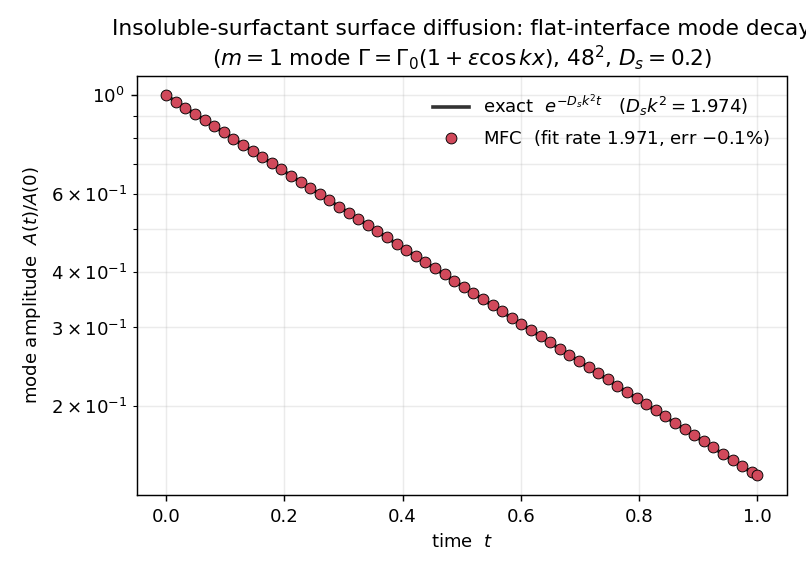
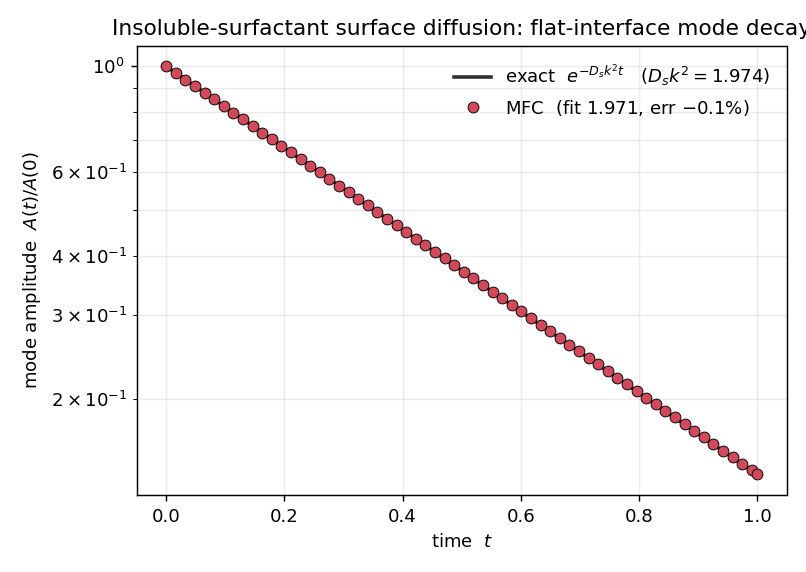
examples: validate surface-diffusion operator across the eigenvalue spectrum (dispersion)
The canonical mode-decay benchmark is the whole rate(k)=D_s k^2 spectrum, not one mode. Add sweep.py (superposition of modes n=1,2,3, which decay independently since the operator is linear) and a measure.py 'sweep' mode that extracts each rate. All three modes lie on D_s k^2: n=1 -0.14%, n=2 -0.57%, n=3 -1.28% (error grows with k as cells-per-wavelength = 48/n drops, the expected spatial-resolution trend), surfactant conserved to round-off. Confirms the existing 1D example is a correct instance of the canonical Laplace-Beltrami benchmark, not just a single point.

Changed region(s): [[0.1241, 0.0594, 0.9926, 0.8322], [0.031, 0.2675, 0.1551, 0.7133], [0.1241, 0.1486, 0.1551, 0.1783]]

diff --git a/examples/1D_solutocapillary_diffusion/measure.py b/examples/1D_solutocapillary_diffusion/measure.py
@@ -1,18 +1,24 @@
 #!/usr/bin/env python3
 """
-Measure the flat-interface surfactant surface-diffusion mode-decay rate and compare to the exact
-value D_s * k^2, then write figures/decay.png.
+Measure the surfactant surface-diffusion mode-decay rate(s) and compare to the exact D_s * k^2.
 
 Reads grid/dt/D_s from the run's simulation.inp (never hard-coded) and the conserved surfactant
-density (the last conserved variable) from the parallel-IO restart files. Run after:
-    ./mfc.sh run case.py -n 1 -t pre_process simulation
-    python3 measure.py
+density (the last conserved variable) from the parallel-IO restart files.
+
+    python3 measure.py           # single-mode decay -> figures/decay.png       (run case.py first)
+    python3 measure.py sweep     # dispersion across wavenumbers -> figures/dispersion.png (run sweep.py first)
+
+The dispersion run (sweep.py) seeds a superposition of modes; because surface diffusion is linear
+each Fourier component decays independently at its own eigenvalue rate, so one run yields the whole
+rate(k) = D_s k^2 spectrum -- the canonical Laplace-Beltrami mode-decay benchmark (e.g. Xu, Li,
+Lowengrub & Zhao, JCP 2006; the surface-FEM literature, Dziuk & Elliott).
 """
 
 import glob
 import math
 import os
 import re
+import sys
 
 import matplotlib
 import numpy as np
@@ -24,8 +30,7 @@ HERE = os.path.dirname(os.path.abspath(__file__))
 
 
 def inp(name, path):
-    txt = open(path).read()
-    m = re.search(rf"^\s*{re.escape(name)}\s*=\s*([^\s,]+)", txt, re.M)
+    m = re.search(rf"^\s*{re.escape(name)}\s*=\s*([^\s,]+)", open(path).read(), re.M)
     if not m:
         raise KeyError(name)
     return float(m.group(1).replace("d", "e").replace("D", "e"))
@@ -36,43 +41,69 @@ nx = int(inp("m", sim)) + 1
 ny = int(inp("n", sim)) + 1
 dt = inp("dt", sim)
 D_s = inp("surf_diff", sim)
-Lx = inp("x_domain%end", sim) - inp("x_domain%beg", sim)
-k = 2.0 * math.pi / Lx
+x0 = inp("x_domain%beg", sim)
+Lx = inp("x_domain%end", sim) - x0
 dx = Lx / nx
-x_cc = inp("x_domain%beg", sim) + (np.arange(nx) + 0.5) * dx
-COS = np.tile(np.cos(k * x_cc), ny)
-SIN = np.tile(np.sin(k * x_cc), ny)
+x_cc = x0 + (np.arange(nx) + 0.5) * dx
 
 files = [f for f in glob.glob(os.path.join(HERE, "restart_data", "lustre_*.dat")) if re.fullmatch(r"\d+", os.path.basename(f)[7:-4])]
 files.sort(key=lambda f: int(os.path.basename(f)[7:-4]))
 ss = os.path.getsize(files[0]) // 8 // (nx * ny)  # surfactant is the last conserved variable
+ts = np.array([int(os.path.basename(f)[7:-4]) * dt for f in files])
+surf = np.array([np.fromfile(f, "<f8").reshape(ss, ny * nx)[ss - 1] for f in files])
+M0 = surf.sum(axis=1)
 
-ts, A, M0 = [], [], []
-for f in files:
-    surf = np.fromfile(f, "<f8").reshape(ss, ny * nx)[ss - 1]
-    ts.append(int(os.path.basename(f)[7:-4]) * dt)
-    A.append(math.hypot((surf * COS).sum(), (surf * SIN).sum()))
-    M0.append(surf.sum())
-ts, A, M0 = np.array(ts), np.array(A), np.array(M0)
-r = A / A[0]
-mask = r > 0.15
-rate = -np.polyfit(ts[mask], np.log(r[mask]), 1)[0]
-ana = D_s * k**2
 
-print(f"total surfactant drift : {100*(M0[-1]/M0[0]-1):+.3f}%")
-print(f"measured decay rate    : {rate:.4f}")
-print(f"exact  D_s k^2         : {ana:.4f}")
-print(f"relative error         : {100*(rate/ana-1):+.2f}%")
+def mode_rate(n):
+    """Fit the decay rate of azimuthal mode n (k = n*2*pi/Lx) over its clean exponential window."""
+    k = n * 2.0 * math.pi / Lx
+    C, S = np.tile(np.cos(k * x_cc), ny), np.tile(np.sin(k * x_cc), ny)
+    A = np.hypot(surf @ C, surf @ S)
+    r = A / A[0]
+    w = (r > 0.12) & (r < 0.95)  # avoid the t=0 point and the noise floor
+    rate = -np.polyfit(ts[w], np.log(r[w]), 1)[0]
+    return k, rate, D_s * k**2, r
 
-fig, ax = plt.subplots(figsize=(6.2, 4.4))
-tt = np.linspace(0, ts[-1], 200)
-ax.semilogy(tt, np.exp(-ana * tt), "-", color="#333", lw=2, label=rf"exact  $e^{{-D_s k^2 t}}$   ($D_s k^2={ana:.3f}$)")
-ax.semilogy(ts, r, "o", ms=6, mfc="#d1495b", mec="k", mew=0.5, label=rf"MFC  (fit ${rate:.3f}$, err ${100*(rate/ana-1):+.1f}\%$)")
-ax.set_xlabel("time  $t$")
-ax.set_ylabel(r"mode amplitude  $A(t)/A(0)$")
-ax.set_title("Insoluble-surfactant surface diffusion: flat-interface mode decay")
-ax.grid(True, which="both", alpha=0.25)
-ax.legend(frameon=False)
-fig.tight_layout()
-fig.savefig(os.path.join(HERE, "figures", "decay.png"), dpi=130)
-print("wrote figures/decay.png")
+
+if "sweep" in sys.argv:
+    modes = [1, 2, 3]
+    print(f"total surfactant drift : {100*(M0[-1]/M0[0]-1):+.3f}%")
+    ks, meas, exact = [], [], []
+    for n in modes:
+        k, rate, ana, _ = mode_rate(n)
+        ks.append(k)
+        meas.append(rate)
+        exact.append(ana)
+        print(f"  mode n={n}  k={k:6.3f}  measured={rate:8.4f}  exact D_s k^2={ana:8.4f}  err={100*(rate/ana-1):+.2f}%")
+    fig, ax = plt.subplots(figsize=(6.2, 4.6))
+    kk = np.linspace(0, max(ks) * 1.05, 100)
+    ax.plot(kk, D_s * kk**2, "-", color="#333", lw=2, label=r"exact  $D_s k^2$")
+    ax.plot(ks, meas, "o", ms=9, mfc="#d1495b", mec="k", mew=0.6, label="MFC")
+    for k, m in zip(ks, meas):
+        ax.annotate(rf"$n={round(k*Lx/(2*math.pi))}$", (k, m), textcoords="offset points", xytext=(8, -10))
+    ax.set_xlabel(r"wavenumber  $k$")
+    ax.set_ylabel(r"decay rate")
+    ax.set_title(r"Surface-diffusion dispersion: rate $=D_s k^2$ across modes")
+    ax.grid(True, alpha=0.25)
+    ax.legend(frameon=False)
+    fig.tight_layout()
+    fig.savefig(os.path.join(HERE, "figures", "dispersion.png"), dpi=130)
+    print("wrote figures/dispersion.png")
+else:
+    k, rate, ana, r = mode_rate(1)
+    print(f"total surfactant drift : {100*(M0[-1]/M0[0]-1):+.3f}%")
+    print(f"measured decay rate    : {rate:.4f}")
+    print(f"exact  D_s k^2         : {ana:.4f}")
+    print(f"relative error         : {100*(rate/ana-1):+.2f}%")
+    fig, ax = plt.subplots(figsize=(6.2, 4.4))
+    tt = np.linspace(0, ts[-1], 200)
+    ax.semilogy(tt, np.exp(-ana * tt), "-", color="#333", lw=2, label=rf"exact  $e^{{-D_s k^2 t}}$   ($D_s k^2={ana:.3f}$)")
+    ax.semilogy(ts, r, "o", ms=6, mfc="#d1495b", mec="k", mew=0.5, label=rf"MFC  (fit ${rate:.3f}$, err ${100*(rate/ana-1):+.1f}\%$)")
+    ax.set_xlabel("time  $t$")
+    ax.set_ylabel(r"mode amplitude  $A(t)/A(0)$")
+    ax.set_title("Insoluble-surfactant surface diffusion: flat-interface mode decay")
+    ax.grid(True, which="both", alpha=0.25)
+    ax.legend(frameon=False)
+    fig.tight_layout()
+    fig.savefig(os.path.join(HERE, "figures", "decay.png"), dpi=130)
+    print("wrote figures/decay.png")

diff --git a/examples/1D_solutocapillary_diffusion/sweep.py b/examples/1D_solutocapillary_diffusion/sweep.py
@@ -1,0 +1,118 @@
+#!/usr/bin/env python3
+# DISPERSION variant of case.py: seed a SUPERPOSITION of surface modes n=1,2,3 and let them decay
+# under pure surface diffusion. Because the operator is linear, each Fourier component decays
+# independently at its own eigenvalue rate D_s*k_n^2 (k_n = n*2*pi/Lx), so a single run yields the
+# whole rate(k)=D_s k^2 dispersion -- the canonical Laplace-Beltrami mode-decay benchmark. Measure with
+#   ./mfc.sh run sweep.py -n 1 -t pre_process simulation
+#   python3 measure.py sweep      # -> figures/dispersion.png
+import json
+import math
+
+Lx, Ly = 2.0, 2.0
+Nx = 48
+dx = Lx / Nx
+Ny = Nx
+k1 = 2.0 * math.pi / Lx  # fundamental
+
+gam = 2.0
+p_inf, p0 = 32.0, 8.0
+mu = 0.1
+rho0 = 0.2
+sigma0 = 0.1
+D_s = 0.2
+eps = 0.2
+# 1 + eps*(cos k1 x + cos k2 x + cos k3 x); each mode decays at D_s*k_n^2
+surf_expr = f"1.0 + {eps:.6f}*(cos({k1:.9f}*x) + cos({2*k1:.9f}*x) + cos({3*k1:.9f}*x))"
+
+c_max = (gam * (p0 + p_inf) / rho0) ** 0.5
+mydt = min(0.3 * dx / c_max, 0.3 * dx**2 / (4.0 * D_s))
+t_step_stop = round(0.9 / mydt)  # ~1.8 tau of the slowest (n=1) mode
+t_step_save = max(1, t_step_stop // 80)  # dense enough to resolve the fast (n=3) decay too
+
+data = {
+    "run_time_info": "T",
+    "x_domain%beg": -Lx / 2,
+    "x_domain%end": Lx / 2,
+    "y_domain%beg": -Ly / 2,
+    "y_domain%end": Ly / 2,
+    "m": Nx - 1,
+    "n": Ny - 1,
+    "p": 0,
+    "cyl_coord": "F",
+    "dt": mydt,
+    "t_step_start": 0,
+    "t_step_stop": t_step_stop,
+    "t_step_save": t_step_save,
+    "model_eqns": 3,
+    "alt_soundspeed": "F",
+    "mixture_err": "T",
+    "mpp_lim": "F",
+    "time_stepper": 3,
+    "weno_order": 5,
+    "weno_eps": 1e-16,
+    "mapped_weno": "T",
+    "null_weights": "F",
+    "mp_weno": "T",
+    "weno_avg": "T",
+    "weno_Re_flux": "T",
+    "riemann_solver": 2,
+    "wave_speeds": 1,
+    "avg_state": 2,
+    "bc_x%beg": -1,
+    "bc_x%end": -1,
+    "bc_y%beg": -2,
+    "bc_y%end": -2,
+    "num_patches": 2,
+    "num_fluids": 2,
+    "viscous": "T",
+    "surface_tension": "T",
+    "sigma": sigma0,
+    "surfactant": "T",
+    "surf_diff": D_s,
+    "format": 1,
+    "precision": 2,
+    "prim_vars_wrt": "T",
+    "cons_vars_wrt": "T",
+    "cf_wrt": "T",
+    "parallel_io": "T",
+    "fluid_pp(1)%gamma": 1.0 / (gam - 1.0),
+    "fluid_pp(1)%pi_inf": gam * p_inf / (gam - 1.0),
+    "fluid_pp(1)%cv": 1.0,
+    "fluid_pp(1)%Re(1)": 1.0 / mu,
+    "fluid_pp(2)%gamma": 1.0 / (gam - 1.0),
+    "fluid_pp(2)%pi_inf": gam * p_inf / (gam - 1.0),
+    "fluid_pp(2)%cv": 1.0,
+    "fluid_pp(2)%Re(1)": 1.0 / mu,
+    "patch_icpp(1)%geometry": 3,
+    "patch_icpp(1)%x_centroid": 0.0,
+    "patch_icpp(1)%y_centroid": Ly / 4,
+    "patch_icpp(1)%length_x": Lx,
+    "patch_icpp(1)%length_y": Ly / 2,
+    "patch_icpp(1)%vel(1)": 0.0,
+    "patch_icpp(1)%vel(2)": 0.0,
+    "patch_icpp(1)%pres": p0,
+    "patch_icpp(1)%alpha_rho(1)": rho0,
+    "patch_icpp(1)%alpha_rho(2)": 1.0e-8,
+    "patch_icpp(1)%alpha(1)": 1.0,
+    "patch_icpp(1)%alpha(2)": 0.0,
+    "patch_icpp(1)%cf_val": 0.0,
+    "patch_icpp(1)%surf_val": 0.0,
+    "patch_icpp(2)%geometry": 3,
+    "patch_icpp(2)%x_centroid": 0.0,
+    "patch_icpp(2)%y_centroid": -Ly / 4,
+    "patch_icpp(2)%length_x": Lx,
+    "patch_icpp(2)%length_y": Ly / 2,
+    "patch_icpp(2)%vel(1)": 0.0,
+    "patch_icpp(2)%vel(2)": 0.0,
+    "patch_icpp(2)%pres": p0,
+    "patch_icpp(2)%alpha_rho(1)": 1.0e-8,
+    "patch_icpp(2)%alpha_rho(2)": rho0,
+    "patch_icpp(2)%alpha(1)": 0.0,
+    "patch_icpp(2)%alpha(2)": 1.0,
+    "patch_icpp(2)%cf_val": 1.0,
+    "patch_icpp(2)%surf_val": surf_expr,
+    "patch_icpp(2)%smoothen": "T",
+    "patch_icpp(2)%smooth_patch_id": 1,
+    "patch_icpp(2)%smooth_coeff": 0.5,
+}
+print(json.dumps(data))

diff --git a/examples/1D_solutocapillary_diffusion/README.md b/examples/1D_solutocapillary_diffusion/README.md
@@ -59,6 +59,31 @@ python3 measure.py
 The amplitude tracks the exact exponential to within 0.1 % on this grid, and the total surfactant is
 conserved to round-off — the surface-diffusion operator reproduces the analytic Laplace–Beltrami rate.
 
+## Dispersion — the full eigenvalue spectrum
+
+The canonical surface-diffusion benchmark is not a single mode but the whole spectrum: every mode `k`
+must decay at its Laplace–Beltrami eigenvalue rate `D_s k²` (Xu, Li, Lowengrub & Zhao, *J. Comput.
+Phys.* 2006; the surface-FEM literature, Dziuk & Elliott). Because the operator is linear, seeding a
+superposition of modes and letting them decay independently recovers the entire `rate(k)` curve in one
+run:
+
+```
+./mfc.sh run sweep.py -n 1 -t pre_process simulation
+python3 measure.py sweep
+```
+
+![dispersion](figures/dispersion.png)
+
+| mode | `k` | measured rate | exact `D_s k²` | error |
+|---|---|---|---|---|
+| `n=1` | 3.14 | 1.971 | 1.974 | −0.14 % |
+| `n=2` | 6.28 | 7.851 | 7.896 | −0.57 % |
+| `n=3` | 9.42 | 17.538 | 17.765 | −1.28 % |
+
+The measured rates lie on `D_s k²` across all three modes; the error grows mildly with `k` because the
+higher modes have fewer cells per wavelength (`48/n`), the expected spatial-resolution trend. This is
+the operator matching the canonical mode-decay benchmark, not just one eigenvalue.
+
 ## Interface field
 
 The surfactant density `Γ̃` on the interface, rendered with the built-in viewer:
